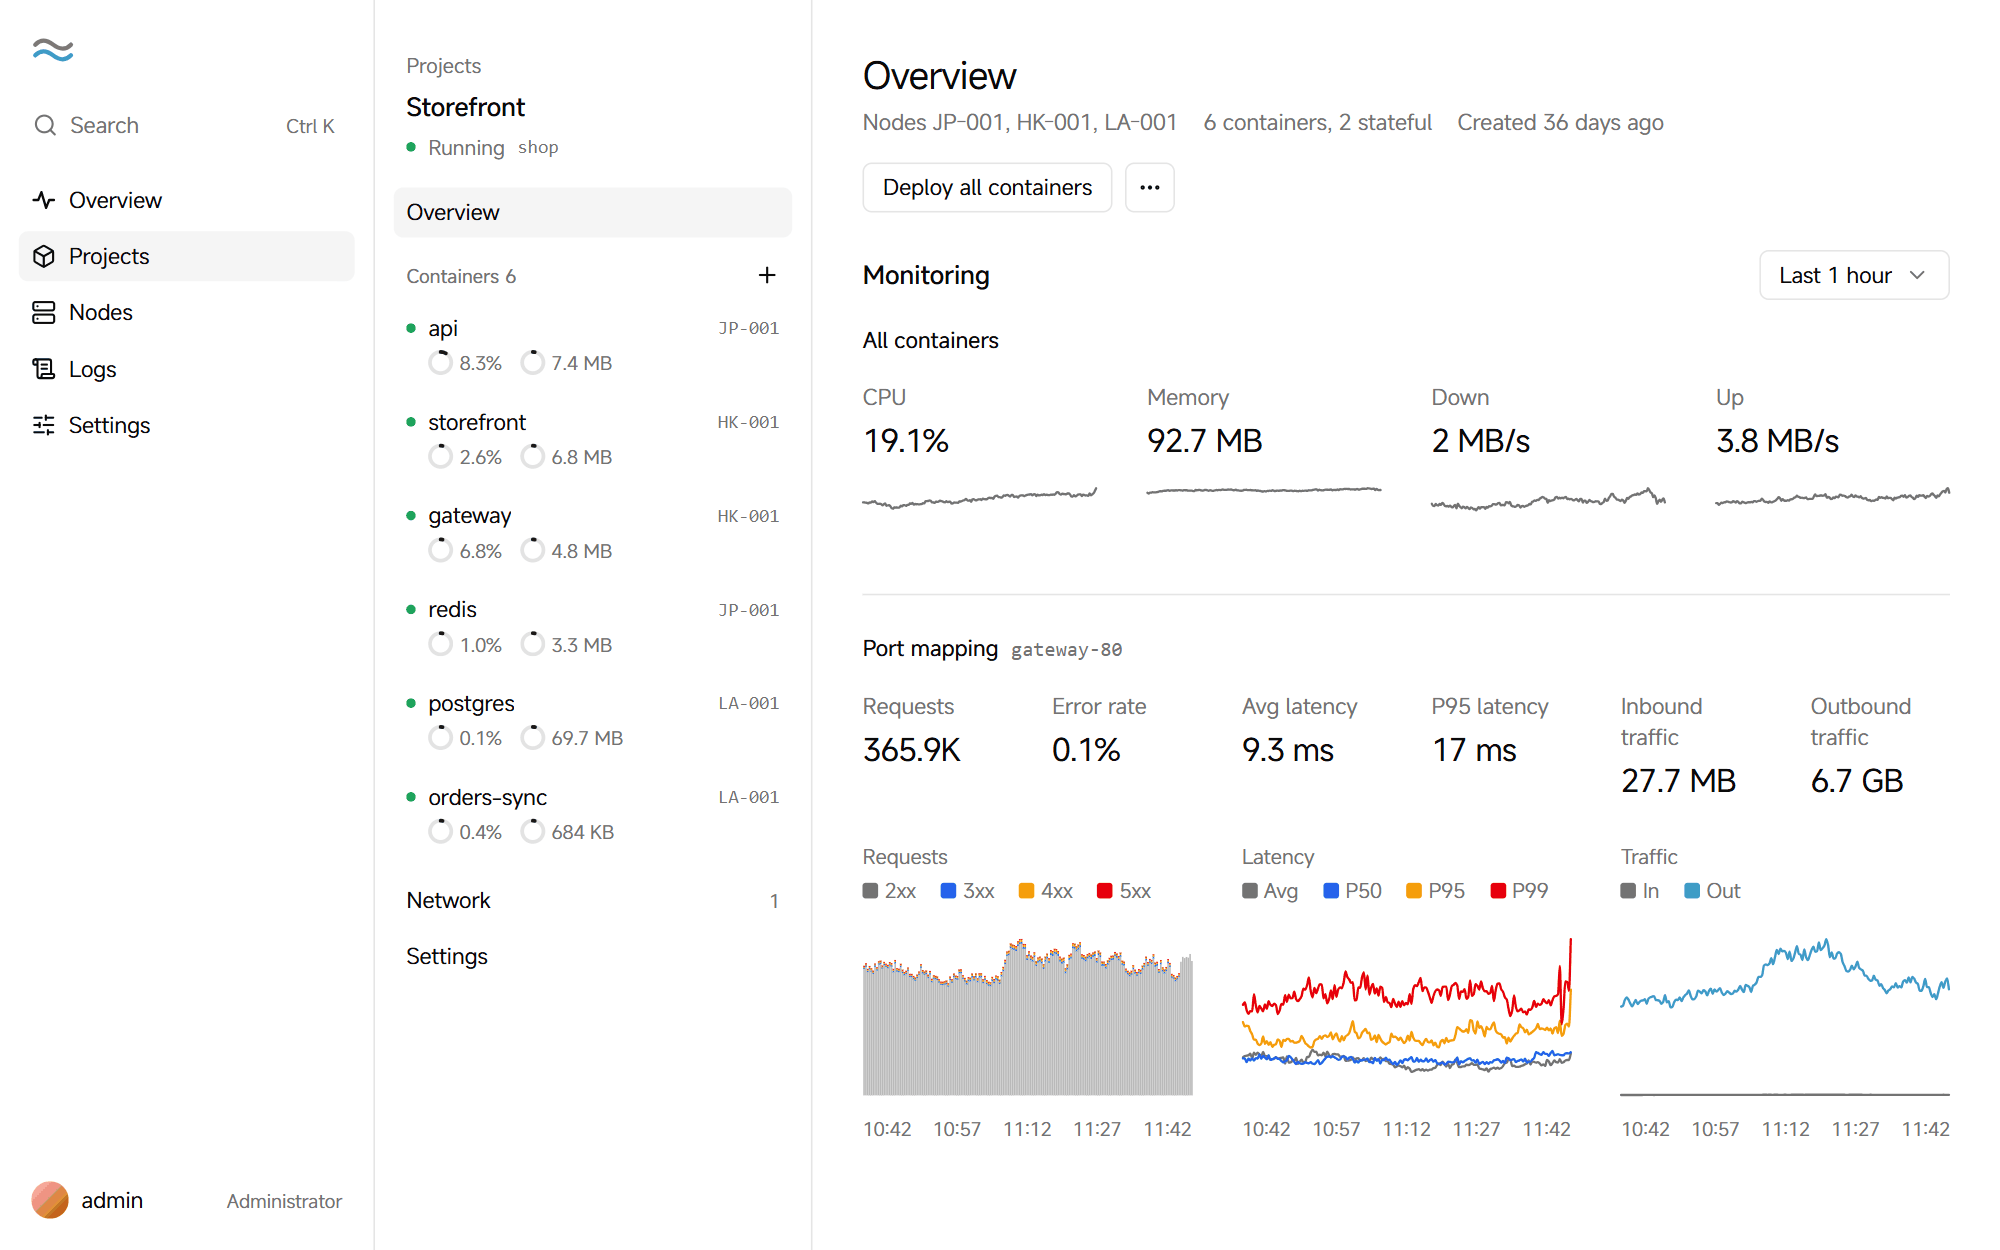
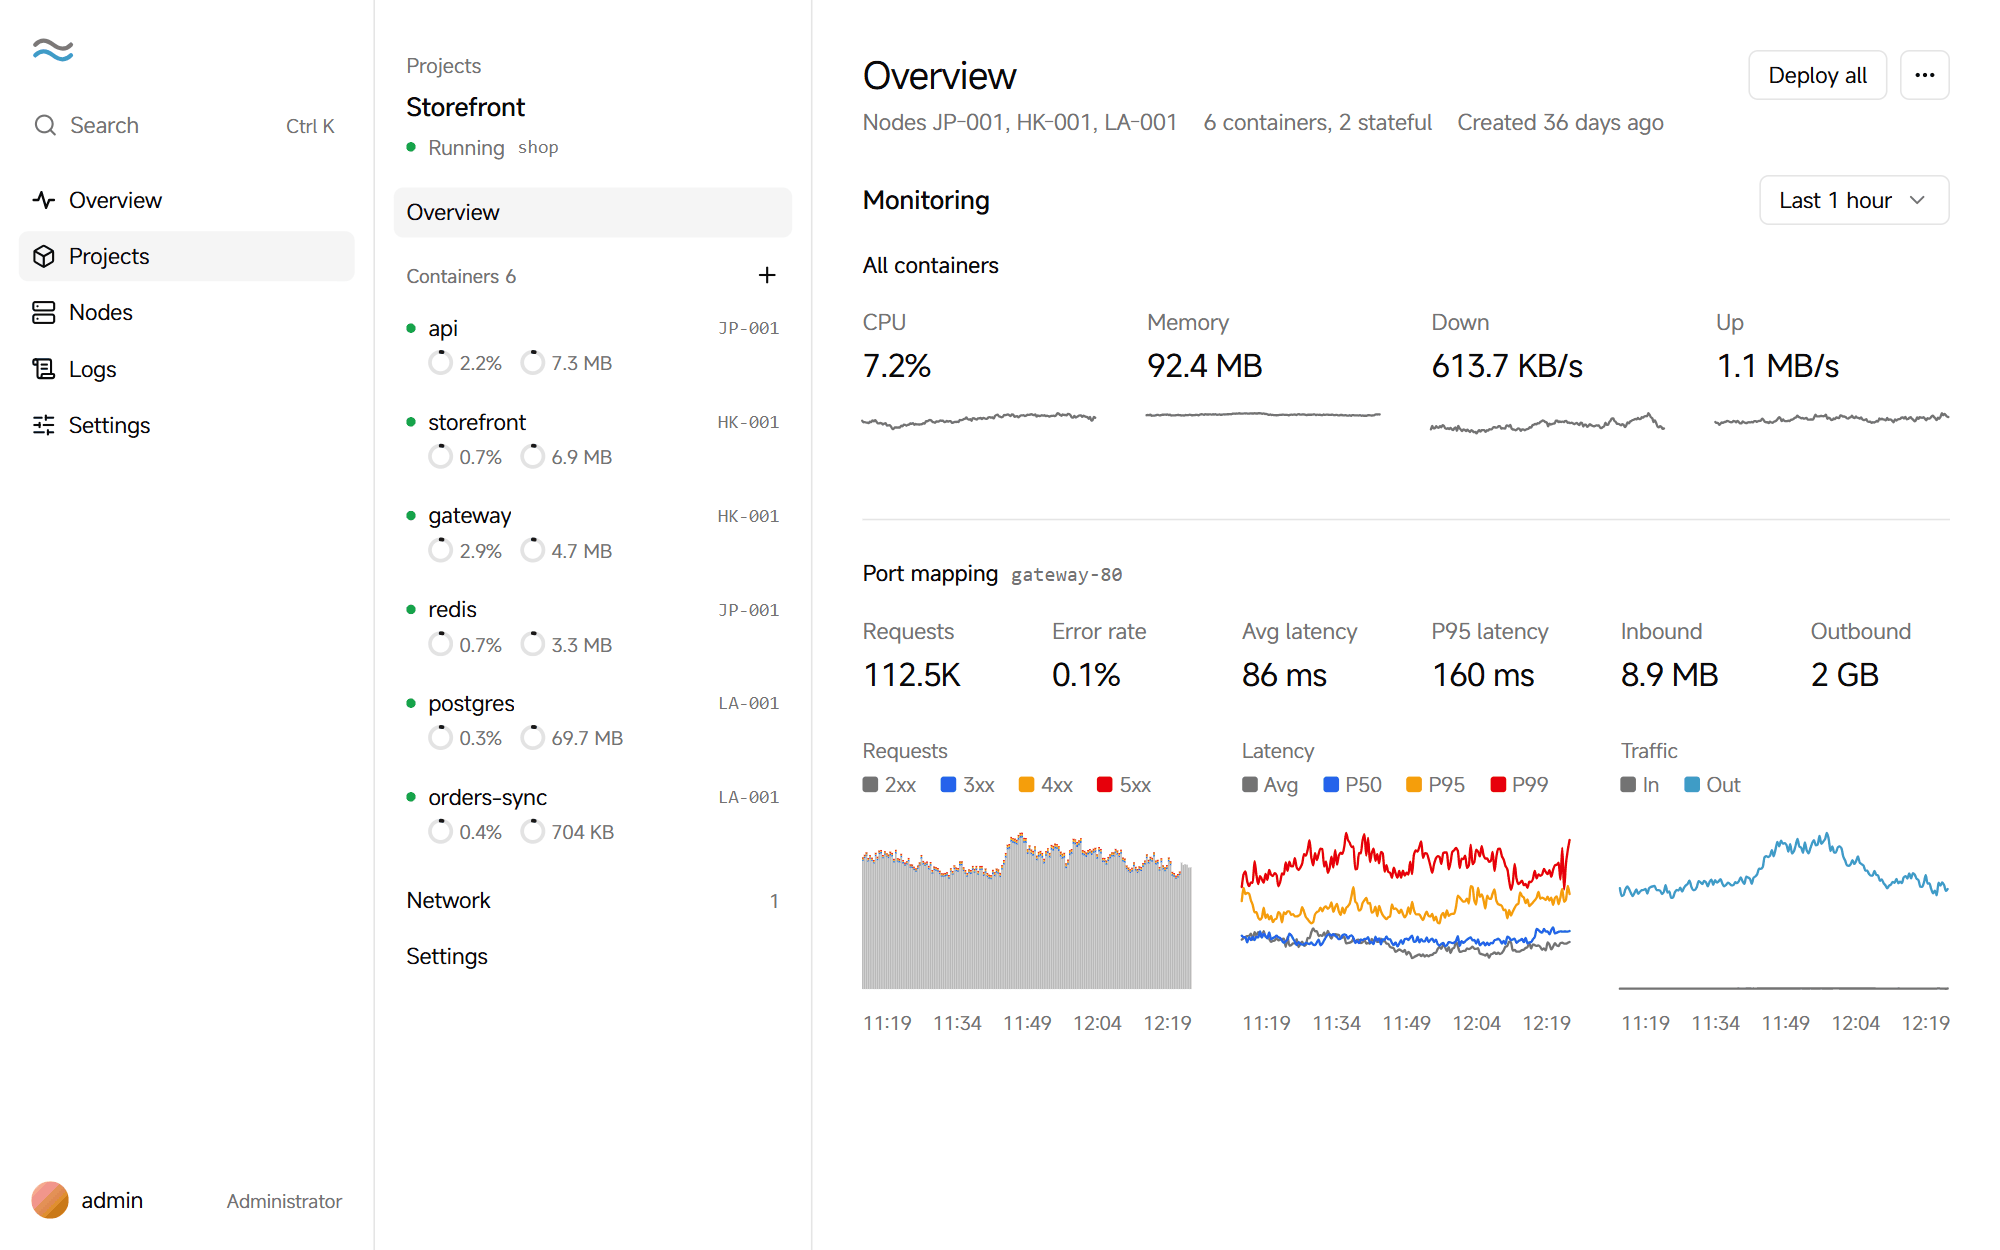
docs: add the node network view to the README screenshots
Retake all screenshots with realistic latency between regions, so the
latency matrix and the gateway timings match.

diff --git a/README.en.md b/README.en.md
@@ -62,6 +62,13 @@ The panel UI is available in English and Chinese. The [design docs](docs/README.
   <img src="docs/assets/screenshots/nodes.en.png" alt="Nodes page: resource usage of each node">
 </picture>
 
+**Node network**: how nodes connect to each other and the latency between them, direct or relayed through the panel.
+
+<picture>
+  <source media="(prefers-color-scheme: dark)" srcset="docs/assets/screenshots/network.en.dark.png">
+  <img src="docs/assets/screenshots/network.en.png" alt="Node network: connections and latency between nodes">
+</picture>
+
 ## Features
 
 ### Multi-node and high availability

diff --git a/README.md b/README.md
@@ -60,6 +60,13 @@ Nagi 是一个开源的自托管容器部署平台：在一个网页面板上，
   <img src="docs/assets/screenshots/nodes.png" alt="节点页：各节点的资源用量">
 </picture>
 
+**节点网络**：节点之间的连接方式和延迟，直连还是经面板中转一目了然。
+
+<picture>
+  <source media="(prefers-color-scheme: dark)" srcset="docs/assets/screenshots/network.dark.png">
+  <img src="docs/assets/screenshots/network.png" alt="节点网络：节点之间的连接和延迟">
+</picture>
+
 ## 特性
 
 ### 多节点与高可用
